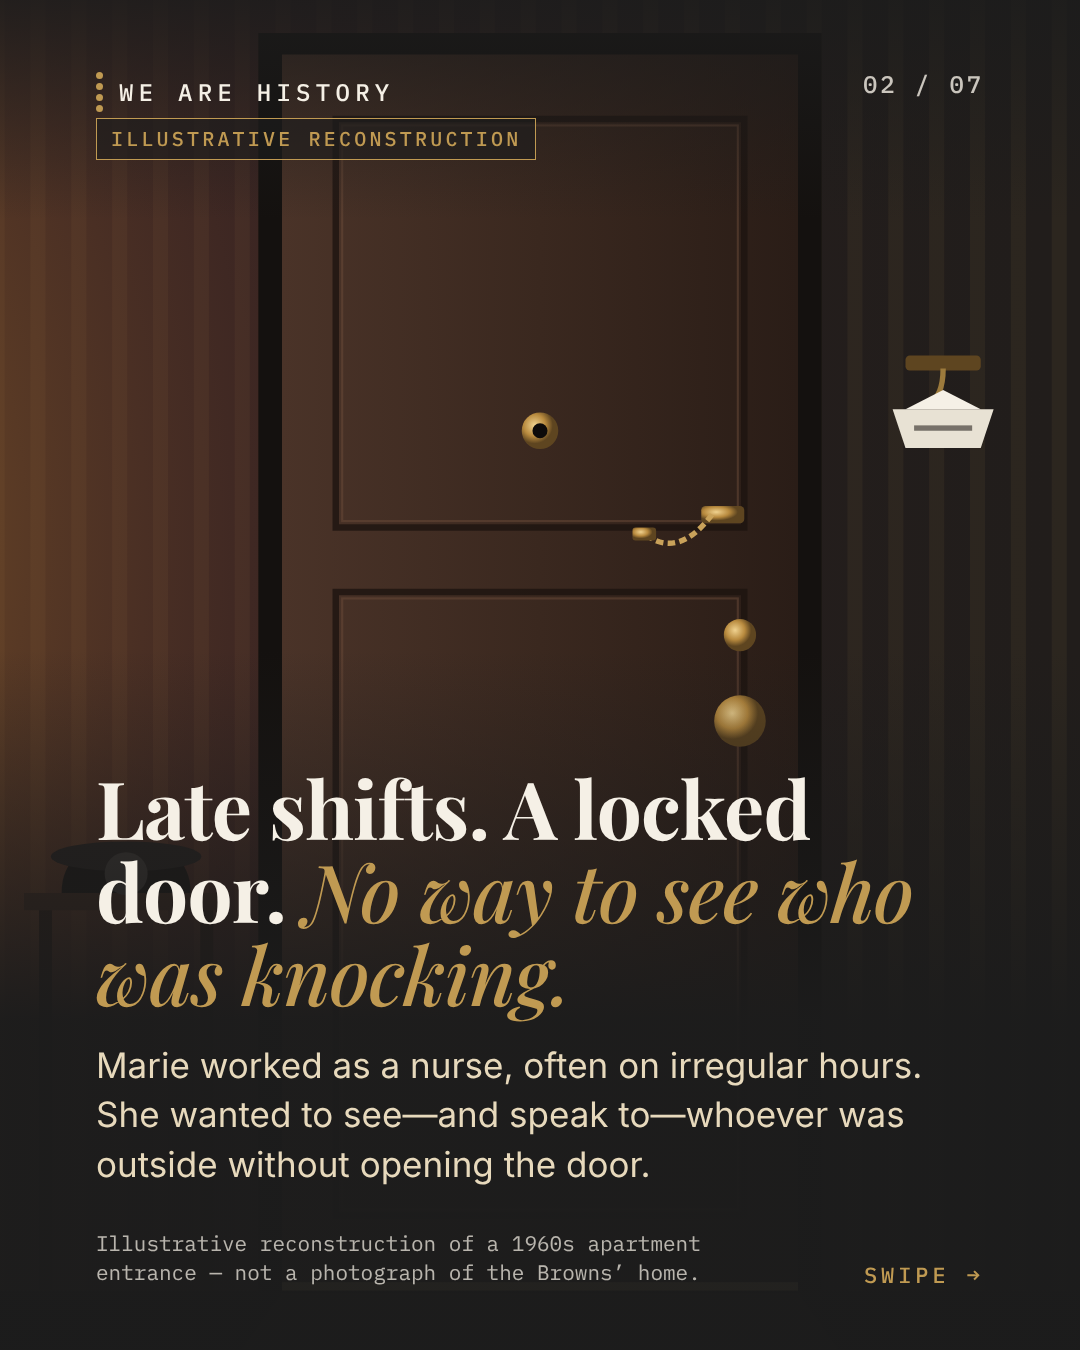
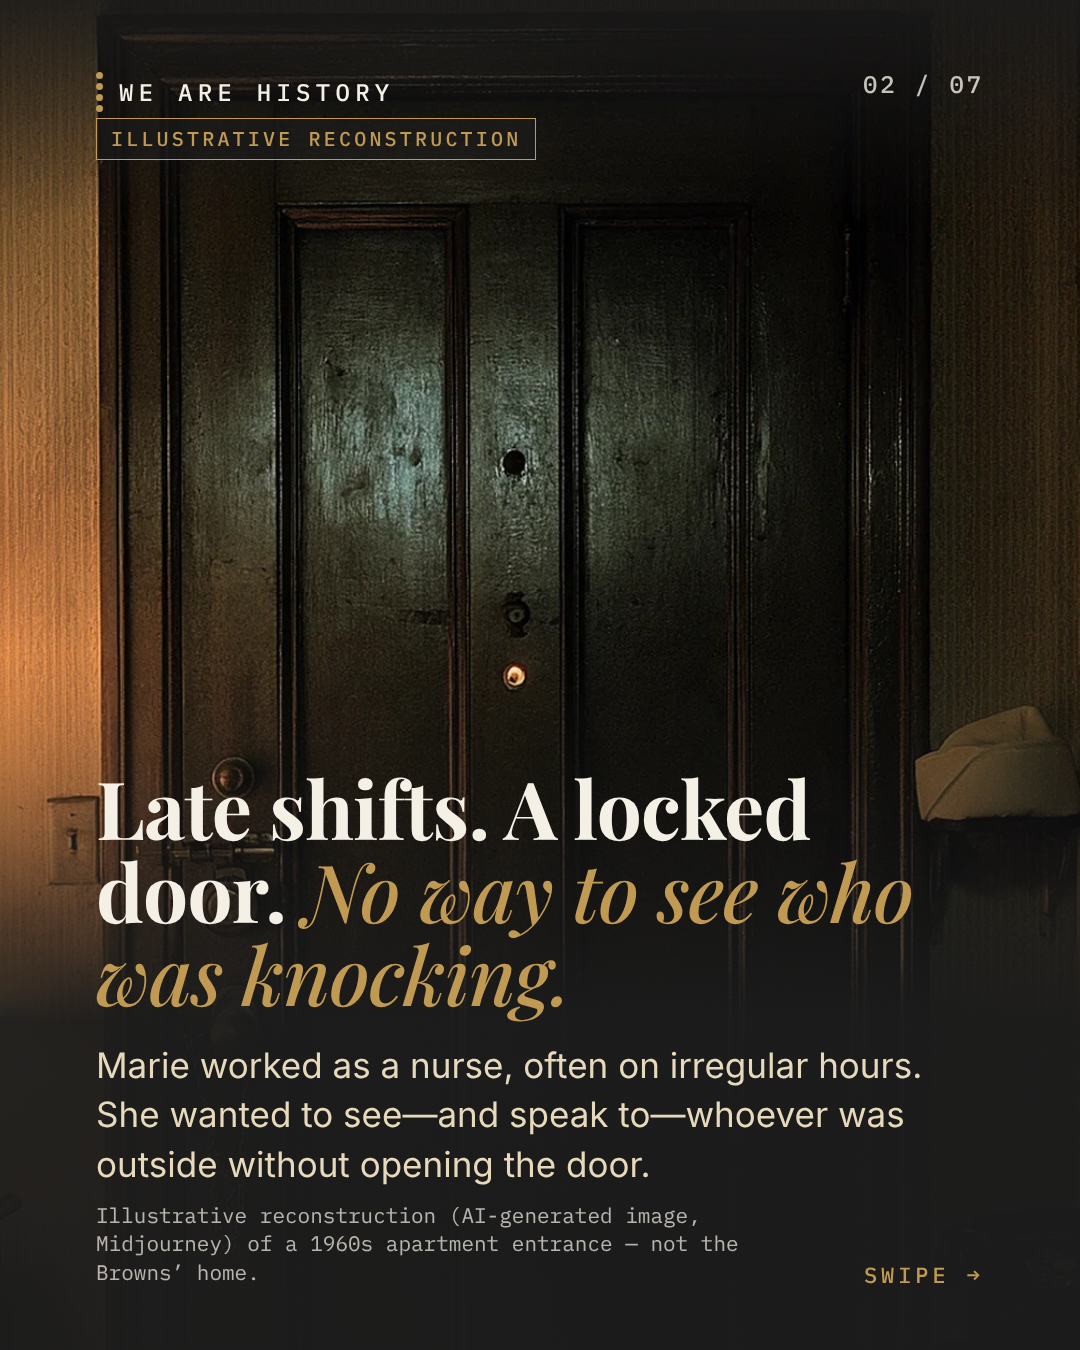
Use Midjourney closed-door plate for slide 2 reconstruction
Replaces the vector illustration with the user's AI-generated 9:16 plate
(cropped for 4:5). The 4:5 take was rejected because it showed the door
ajar, implying an undocumented event. Disclosure, alt text and captions
now state slide 2 is AI-generated.

Claude-Session: https://claude.ai/code/session_017bbTY48W4naKypbS3mQQz4

diff --git a/we-are-history/marie-van-brittan-brown/build/carousel.html b/we-are-history/marie-van-brittan-brown/build/carousel.html
@@ -127,54 +127,10 @@ S[1]={dur:7,theme:'dark',build(){
 S[2]={dur:7,theme:'dark',build(){
   bg.className='dark';
   // Full-bleed illustrated scene; extends naturally in the 9:16 frame
-  bg.innerHTML=`<div id="scene" class="abs" style="inset:0;transform-origin:50% ${(OFF+420)/H*100}%">
-  <svg width="1080" height="${H}" viewBox="0 ${-OFF} 1080 ${H}" preserveAspectRatio="xMidYMid slice">
-    <defs>
-      <radialGradient id="lamp" cx="0.05" cy="0.42" r="0.8"><stop offset="0" stop-color="#b9772f" stop-opacity=".55"/><stop offset=".45" stop-color="#722F37" stop-opacity=".22"/><stop offset="1" stop-color="#1C1C1C" stop-opacity="0"/></radialGradient>
-      <linearGradient id="wood" x1="0" x2="1"><stop offset="0" stop-color="#4a3328"/><stop offset=".5" stop-color="#3a281f"/><stop offset="1" stop-color="#2a1d17"/></linearGradient>
-      <linearGradient id="gap" x1="0" x2="0" y1="0" y2="1"><stop offset="0" stop-color="#e9c37a" stop-opacity=".9"/><stop offset="1" stop-color="#e9c37a" stop-opacity="0"/></linearGradient>
-      <radialGradient id="brass" cx=".35" cy=".35"><stop offset="0" stop-color="#f0d28f"/><stop offset=".6" stop-color="#b88a3e"/><stop offset="1" stop-color="#5e4520"/></radialGradient>
-    </defs>
-    <rect x="-200" y="-600" width="1480" height="2700" fill="#211d1b"/>
-    <!-- wallpaper stripe, period-appropriate -->
-    <g opacity=".07">${Array.from({length:40},(_,i)=>`<rect x="${-200+i*38}" y="-600" width="14" height="2700" fill="#C09A52"/>`).join('')}</g>
-    <rect x="-200" y="-600" width="1480" height="2700" fill="url(#lamp)"/>
-    <!-- door frame & door -->
-    <rect x="278" y="60" width="524" height="1170" fill="#14110f"/>
-    <rect x="300" y="80" width="480" height="1150" fill="url(#wood)"/>
-    <g fill="none" stroke="#1d1410" stroke-width="6" opacity=".8">
-      <rect x="350" y="140" width="380" height="380"/><rect x="350" y="580" width="380" height="580"/>
-    </g>
-    <g fill="none" stroke="#6b4b39" stroke-width="2" opacity=".5">
-      <rect x="356" y="146" width="368" height="368"/><rect x="356" y="586" width="368" height="568"/>
-    </g>
-    <!-- peephole -->
-    <circle cx="540" cy="430" r="17" fill="url(#brass)"/><circle cx="540" cy="430" r="7" fill="#0d0b0a"/>
-    <!-- chain lock -->
-    <rect x="690" y="500" width="40" height="16" rx="4" fill="url(#brass)"/>
-    <path d="M700 508 q-30 40 -60 20" fill="none" stroke="#c9a25a" stroke-width="5" stroke-dasharray="7 4"/>
-    <rect x="626" y="520" width="22" height="12" rx="3" fill="url(#brass)"/>
-    <!-- knob + deadbolt -->
-    <circle cx="726" cy="700" r="24" fill="url(#brass)"/><circle cx="726" cy="620" r="15" fill="url(#brass)"/>
-    <!-- light under the door from the hallway -->
-    <rect x="300" y="1222" width="480" height="8" fill="#f1cf86"/>
-    <path d="M300 1230 L780 1230 L900 1400 L180 1400 Z" fill="url(#gap)" opacity=".35"/>
-    <!-- floor -->
-    <rect x="-200" y="1230" width="1480" height="900" fill="#151210"/>
-    <path d="M300 1232 L780 1232 L900 1400 L180 1400 Z" fill="#e9c37a" opacity=".08"/>
-    <!-- coat hook with folded nurse's cap (generic period object) -->
-    <rect x="880" y="360" width="70" height="14" rx="4" fill="#5e4520"/>
-    <path d="M915 372 q0 26 -14 34" fill="none" stroke="#9c7a3c" stroke-width="5"/>
-    <path d="M868 410 L962 410 L950 446 L880 446 Z" fill="#e8e2d4"/><path d="M880 410 L915 392 L950 410 Z" fill="#f5f0e6"/>
-    <rect x="888" y="425" width="54" height="5" fill="#2b2622" opacity=".6"/>
-    <!-- side table + rotary phone, 1960s -->
-    <rect x="60" y="860" width="190" height="16" fill="#3a281f"/><rect x="74" y="876" width="12" height="354" fill="#2a1d17"/><rect x="224" y="876" width="12" height="354" fill="#2a1d17"/>
-    <path d="M95 860 q0 -46 60 -46 q60 0 60 46 Z" fill="#1a1715"/><ellipse cx="155" cy="826" rx="70" ry="14" fill="#262220"/>
-    <circle cx="155" cy="842" r="20" fill="#3b3734"/>
-  </svg></div>
-  <div class="abs" style="left:0;right:0;bottom:0;height:${OFF+700}px;background:linear-gradient(to top,rgba(28,28,28,.97) ${(OFF+330)/(OFF+700)*100}%,rgba(28,28,28,0))"></div>
+  bg.innerHTML=`<div id="scene" class="abs" style="inset:0;background:#1a1512 url(assets/plates/door-plate.jpg) no-repeat;background-size:1080px auto;background-position:0 ${FMT==='reel'?0:-80}px;transform-origin:50% ${FMT==='reel'?543/1920*100:463/1350*100}%"></div>
+  <div class="abs" style="left:0;right:0;bottom:0;height:${OFF+700}px;background:${FMT==='reel'?'linear-gradient(to top,rgba(28,28,28,.55) 0%,rgba(28,28,28,.5) 22%,rgba(28,28,28,.97) 42%,rgba(28,28,28,.97) 72%,rgba(28,28,28,0))':`linear-gradient(to top,rgba(28,28,28,.97) ${(OFF+330)/(OFF+700)*100}%,rgba(28,28,28,0))`}"></div>
   <div class="abs" style="left:0;right:0;top:0;height:${OFF+220}px;background:linear-gradient(to bottom,rgba(28,28,28,.85),rgba(28,28,28,0))"></div>`;
-  stage.innerHTML=chrome(2,'dark','Illustrative reconstruction of a 1960s apartment entrance — not a photograph of the Browns’ home.',{tag:'ILLUSTRATIVE RECONSTRUCTION'})+`
+  stage.innerHTML=chrome(2,'dark','Illustrative reconstruction (AI-generated image, Midjourney) of a 1960s apartment entrance — not the Browns’ home.',{tag:'ILLUSTRATIVE RECONSTRUCTION'})+`
   <div class="abs" style="left:96px;right:96px;top:765px">
     <h1 id="t2h" style="font-size:80px">Late shifts. A locked door. <em>No way to see who was knocking.</em></h1>
     <p id="t2b" class="body" style="margin-top:26px">Marie worked as a nurse, often on irregular hours. She wanted to see—and speak to—whoever was outside without opening the door.</p>

diff --git a/we-are-history/marie-van-brittan-brown/ALT-TEXT-AND-DISCLOSURE.md b/we-are-history/marie-van-brittan-brown/ALT-TEXT-AND-DISCLOSURE.md
@@ -2,7 +2,7 @@
 
 **slide-01:** A 1966 patent drawing of a front door with four round lens ports in a vertical column, drawn in cream lines on black. Each lens is circled in gold. Headline: "A nurse in Queens designed this in 1966." Text: "Decades before smart doorbells, Marie Van Brittan Brown drew a door that could show you who was outside."
 
-**slide-02:** An illustration of a dark wooden apartment door at night with a brass peephole, chain lock and a thin line of hallway light under the door. A folded nurse's cap hangs on a hook. Labeled "Illustrative reconstruction." Headline: "Late shifts. A locked door. No way to see who was knocking." Text: "Marie worked as a nurse, often on irregular hours. She wanted to see—and speak to—whoever was outside without opening the door."
+**slide-02:** An AI-generated image of a closed, dark-stained wooden apartment door at night, lit by a warm lamp from the left. It has a peephole, a brass chain lock and a deadbolt, with a thin line of hallway light under the door. A folded white nurse's cap sits on a wall shelf beside it, and a black rotary phone sits on a small table. Labeled "Illustrative reconstruction." Headline: "Late shifts. A locked door. No way to see who was knocking." Text: "Marie worked as a nurse, often on irregular hours. She wanted to see—and speak to—whoever was outside without opening the door."
 
 **slide-03:** Left: patent Figure 2, the four-lens door. Right: a simple cutaway diagram of a camera box on a vertical track inside the door, lined up with one of four lenses, with a cone of light pointing outside. Headline: "Four peepholes. One camera that moved." Text: "A motor-driven camera slid up and down behind the door, lining up with whichever lens gave the best view of the visitor."
 
@@ -17,7 +17,7 @@
 # Disclosure: archival material vs. illustration
 
 - **Archival:** every patent drawing (Figs. 2, 6 and 7, the sheet header, and the inventors' names as lettered on the drawings) is reproduced from U.S. Patent 3,482,037 (USPTO). The drawings have been recoloured and cropped. Nothing has been redrawn or added inside them. The caricatured "visitor" figure in the patent's Fig. 1 and Fig. 2 was cropped out on purpose.
-- **Illustrative reconstruction:** slide 2 (the apartment door at night) is an original vector illustration of a generic 1960s apartment entrance. It is not the Browns' home, not a documented scene, and not a photograph. It is labeled on the slide.
+- **Illustrative reconstruction (AI-generated):** the slide 2 image (a 1960s apartment door at night) was generated in Midjourney from a settings-and-objects prompt with no people. It is not the Browns' home, not a documented scene and not a photograph. It is labeled "Illustrative reconstruction" on the slide, and the slide's source line says "AI-generated image, Midjourney." A second Midjourney take showing the door ajar was rejected because it implied an event that never happened.
 - **Explanatory graphics:** the cutaway camera diagram (slide 3), the monitor silhouette and radio-wave marks (slide 4), the phone "live feed" (slide 1 animation) and the doorbell outline (slide 7) are explanatory graphics, not period artifacts.
-- **No AI image generation was used.** No image of Marie or Albert Brown is shown or simulated. No photograph of the Browns was used because none was available under a clear licence. The known press photo is credited New York Times/Redux.
-- **Suggested caption footnote:** "Patent drawings: U.S. Patent 3,482,037 (USPTO). Slide 2 is an illustrative reconstruction, not a photograph."
+- **AI generation is limited to the slide 2 setting.** No image of Marie or Albert Brown is shown or simulated. No photograph of the Browns was used because none was available under a clear licence. The known press photo is credited New York Times/Redux.
+- **Suggested caption footnote:** "Patent drawings: U.S. Patent 3,482,037 (USPTO). Slide 2 is an AI-generated illustrative reconstruction, not a photograph."

diff --git a/we-are-history/marie-van-brittan-brown/CAPTIONS.md b/we-are-history/marie-van-brittan-brown/CAPTIONS.md
@@ -16,7 +16,7 @@ Their complete system was never widely manufactured during her lifetime. Today, 
 
 Had you heard of Marie Van Brittan Brown before today? Who else belongs in the story of everyday technology?
 
-Patent drawings: U.S. Patent 3,482,037 (USPTO). Slide 2 is an illustrative reconstruction, not a photograph.
+Patent drawings: U.S. Patent 3,482,037 (USPTO). Slide 2 is an AI-generated illustrative reconstruction, not a photograph.
 
 #WeAreHistory #MarieVanBrittanBrown #BlackHistory #WomenInSTEM #WomenInventors #BlackInventors #InventionHistory #HistoryOfTechnology #Queens #HiddenHistory
 
@@ -44,6 +44,6 @@ She didn't invent cameras, intercoms or alarms. Her contribution was bringing th
 
 Did you learn about her in school? Tell us in the comments, and tag a teacher, student or inventor who should know her name.
 
-Sources: U.S. Patent 3,482,037; Smithsonian Magazine; Lemelson-MIT. Patent drawings courtesy of the USPTO. Slide 2 is an illustrative reconstruction, not a photograph.
+Sources: U.S. Patent 3,482,037; Smithsonian Magazine; Lemelson-MIT. Patent drawings courtesy of the USPTO. Slide 2 is an AI-generated illustrative reconstruction, not a photograph.
 
 Save and share Marie Van Brittan Brown’s story—and follow @warehistory32 for more history we should all know.
